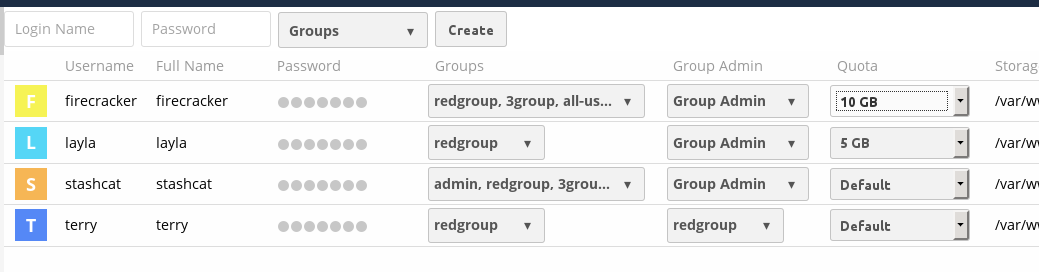
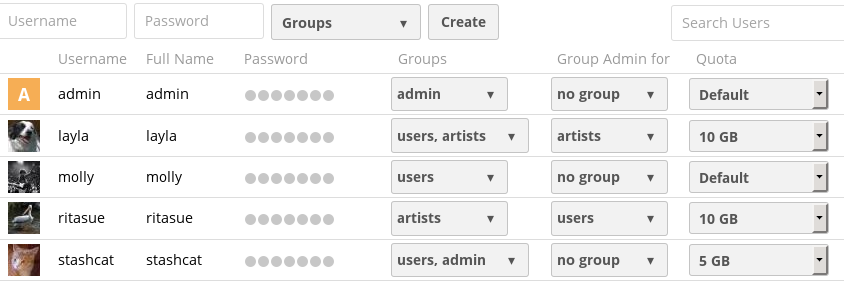
updated user management page w new fields

diff --git a/admin_manual/configuration_user/user_configuration.rst b/admin_manual/configuration_user/user_configuration.rst
@@ -2,17 +2,38 @@
 User Management
 ===============
 
-On the User management page you can create new users, view all of your users in 
-a single scrolling window, filter users by group, see what groups they belong 
-to, edit their full names and passwords, see their data storage locations, view 
-and set quotas, and, if you so desire, delete them with a single click.
+On the User management page of your ownCloud Web UI you can:
+
+* Create new users
+* View all of your users in a single scrolling window
+* Filter users by group
+* See what groups they belong to
+* Edit their full names and passwords
+* See their data storage locations
+* View and set quotas
+* Create and edit their email addresses
+* Send an automatic email notification to new users
+* Delete them with a single click
+
+The default view displays basic information about your users.
 
 .. figure:: ../images/users-config.png
+
+The Group filters on the left sidebar lets you quickly filter users by their 
+group memberships, and create new groups.
+
+.. figure:: ../images/users-config-1.png
+
+Click the gear icon on the lower left sidebar to set a default storage quota, 
+and to display additional fields: **Show storage location, Show last log in, 
+Show user backend, Send email to new users,** and **Show email address**.
+
+.. figure:: ../images/users-config-2.png
 
 User accounts have the following properties:
 
 *Login Name (Username)*
-  This is the unique ID of an ownCloud user, and it cannot be changed.
+  The unique ID of an ownCloud user, and it cannot be changed.
 
 *Full Name*
   The user's display name that appears on file shares, the ownCloud Web 
@@ -52,7 +73,11 @@ underscores (_), periods (.) and ampersands (@). After creating the user, you
 may fill in their **Full Name** if it is different than the login name, or 
 leave it for the user to complete.
 
-Remember to give your new users their logins and passwords.
+If you have checked **Send email to new user** in the control panel on the 
+lower left sidebar, you may also enter the new user's email address, and 
+ownCloud will automatically send them a notification with their new login 
+information. You may edit this email using the email template editor on your 
+Admin page (see :doc:`../configuration_server/email_configuration`).
 
 Reset a User's Password
 ~~~~~~~~~~~~~~~~~~~~~~~
@@ -159,6 +184,6 @@ user.
 All of the files owned by the user are deleted as well, including all files they 
 have shared. If you need to preserve the user's files and shares, you must first 
 download them from your ownCloud Files page, which compresses them into a zip 
-file, or use a sync client to copy them to your local computer. See the "File 
-Sharing" section of the Admin Manual to learn how to create persistent file 
-shares that survive user deletions.
+file, or use a sync client to copy them to your local computer. See 
+:doc:`../configuration_files/file_sharing_configuration` to learn how to create 
+persistent file shares that survive user deletions.
